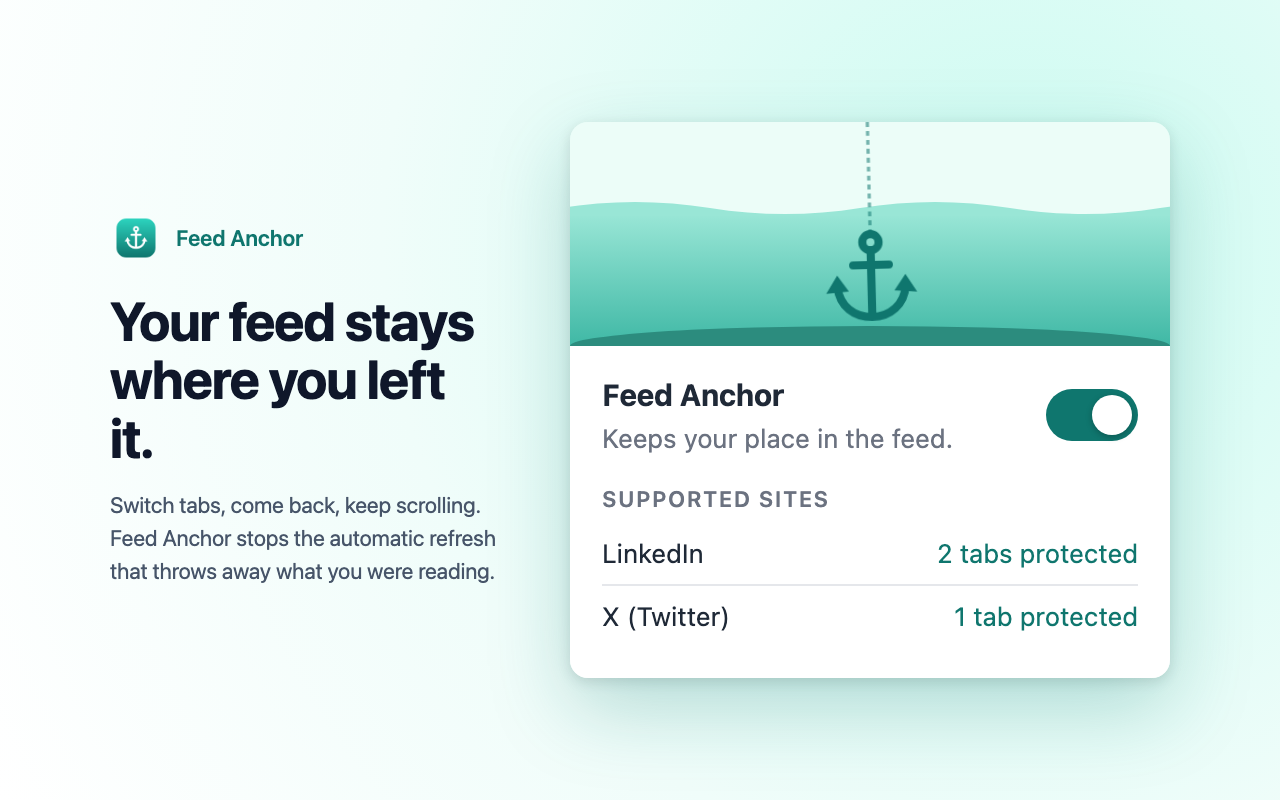
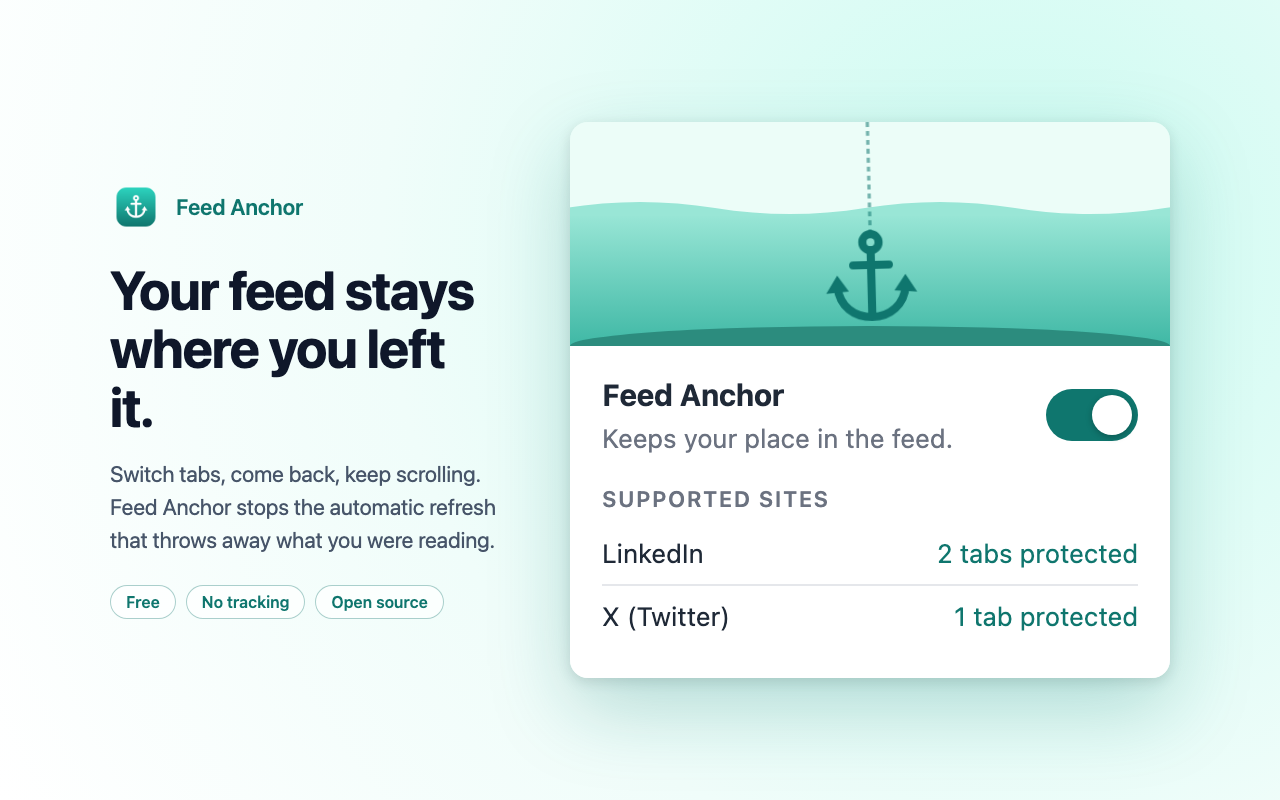
Add Free, No tracking and Open source chips to screenshot 1

Changed region(s): [[0.0625, 0.2188, 0.4062, 0.7812]]

diff --git a/store/preview/screenshot.html b/store/preview/screenshot.html
@@ -12,6 +12,10 @@
   h1 { font-size: 54px; line-height: 1.08; letter-spacing: -.02em; margin: 0 0 22px; }
   p { font-size: 22px; line-height: 1.5; margin: 0; color: #475569; max-width: 520px; }
   .dark p { color: #9ca3af; }
+  .chips { display: flex; gap: 10px; margin-top: 28px; }
+  .chips span { font-size: 16px; font-weight: 600; color: #0f766e; background: rgba(255,255,255,.7);
+                border: 1.5px solid rgba(15,118,110,.35); border-radius: 99px; padding: 7px 15px; }
+  .dark .chips span { color: #5eead4; background: rgba(255,255,255,.04); border-color: rgba(94,234,212,.35); }
   .shot { width: 600px; border-radius: 18px; overflow: hidden; flex: none;
           box-shadow: 0 30px 80px rgba(15, 118, 110, .25), 0 4px 14px rgba(0,0,0,.12); }
   .shot img { display: block; width: 100%; }
@@ -19,6 +23,7 @@
   <div class="copy">
     <div class="brand"><img src="../../src/icons/icon128.png" alt="">Feed Anchor</div>
     <h1 id="h"></h1><p id="p"></p>
+    <div class="chips" id="chips" hidden><span>Free</span><span>No tracking</span><span>Open source</span></div>
   </div>
   <div class="shot"><img id="img" alt=""></div>
 <script>
@@ -26,5 +31,6 @@
   document.getElementById("h").textContent = q.get("h");
   document.getElementById("p").textContent = q.get("p");
   document.getElementById("img").src = q.get("img");
+  if (q.has("chips")) document.getElementById("chips").hidden = false;
   if (q.get("theme") === "dark") document.body.className = "dark";
 </script></body></html>
